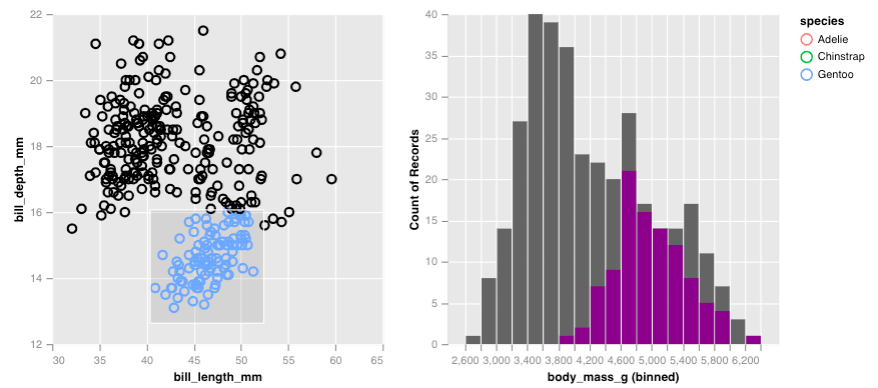
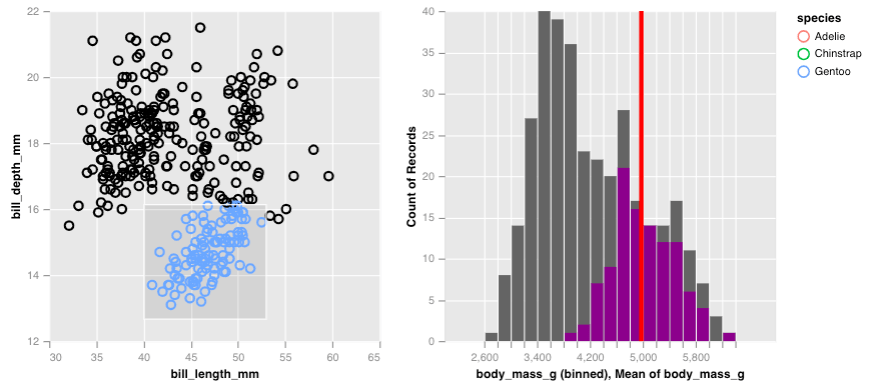
fixed duplicate selection ids with h/vconcat()

diff --git a/README.md b/README.md
@@ -17,17 +17,17 @@ interface to the grammar of graphics implemented by
 [**Vega-Lite**](https://vega.github.io/vega-lite/) which defines the
 following elements:
 
-  - aesthetic mappings/encodings via `enc()`
-  - graphical elements like `mark_point()`, with the `mark_*` family of
+-   aesthetic mappings/encodings via `enc()`
+-   graphical elements like `mark_point()`, with the `mark_*` family of
     functions
-  - interactive objects, such as brushes (using `select_interval()`) and
+-   interactive objects, such as brushes (using `select_interval()`) and
     sliders (using `input_slider()`), via the `select_*` and `input_*`
     family of functions
-  - interactive calculations, for example mean (using `vg_mean()`), via
+-   interactive calculations, for example mean (using `vg_mean()`), via
     the `vg_*` family of functions
-  - data transformations on selection objects for rich interactivity,
+-   data transformations on selection objects for rich interactivity,
     with {dplyr} verbs
-  - plot composition via faceting and concatenation using
+-   plot composition via faceting and concatenation using
     `facet_views()`, `hconcat()` and `vconcat()`
 
 ## Installation
@@ -101,13 +101,17 @@ Once a selection is created, it can be passed into other marks, in order
 to perform a filter. Here, we create a chart with two histogram layers,
 the first will represent the overall distribution of penguin body
 masses, while the latter will be the distribution conditional on the
-selection, and will be shown in purple.
+selection, and will be shown in purple. We also add a vertical line to
+highlight the average level given the selection.
 
 ``` r
 p_right <- penguins %>% 
   vega(enc(x = body_mass_g)) %>% 
   mark_histogram(bin = list(maxbins = 20)) %>% 
-  mark_histogram(color = "purple", bin = list(maxbins = 20), selection = selection)
+  mark_histogram(color = "purple", bin = list(maxbins = 20),
+    selection = selection) %>% 
+  mark_rule(enc(x = vg_mean(body_mass_g)), color = "red", size = 4,
+    selection = selection)
 p_right
 ```
 
@@ -116,7 +120,7 @@ p_right
 By itself, this histogram isn’t too exciting but if we place along side
 the scatter plot of penguin bill measurements, we can see how the body
 mass counts change as we brush over the scatter plot. All we have do is
-simple concatenate the plots horizontally\!
+simple concatenate the plots horizontally!
 
 ``` r
 hconcat(p, p_right)
@@ -131,10 +135,10 @@ of masses.
 
 ## Learning more
 
-  - [Example gallery]()
-  - [Using **virgo** to explore Melbourne’s microclimate]()
-  - [Guide to **virgo** for **ggplot2** users]()
-  - [Composing plot interactions with selections]()
+-   [Example gallery]()
+-   [Using **virgo** to explore Melbourne’s microclimate]()
+-   [Guide to **virgo** for **ggplot2** users]()
+-   [Composing plot interactions with selections]()
 
 ## Lifecycle
 
@@ -144,16 +148,16 @@ experimental](https://img.shields.io/badge/lifecycle-experimental-orange.svg)](h
 The **virgo** package is under rapid development and we are still
 working through our ideas for incorporating interactive graphics into
 exploratory data analysis. If you have feedback we would love to hear
-it\!
+it!
 
 ## Related works
 
-  - [{ggvis}](http://ggvis.rstudio.com)
-  - [{vegalite}](https://github.com/hrbrmstr/vegalite)
+-   [{ggvis}](http://ggvis.rstudio.com)
+-   [{vegalite}](https://github.com/hrbrmstr/vegalite)
 
 ## Acknowledgements
 
-  - Vega/Vega-Lite developers
-  - Ian Lyttle, Hayley Jepson and Alicia Schep for their foundational
+-   Vega/Vega-Lite developers
+-   Ian Lyttle, Hayley Jepson and Alicia Schep for their foundational
     work in the
     [**vegawidget**](https://vegawidget.github.io/vegawidget/) package
